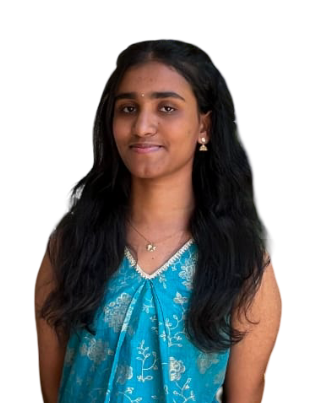
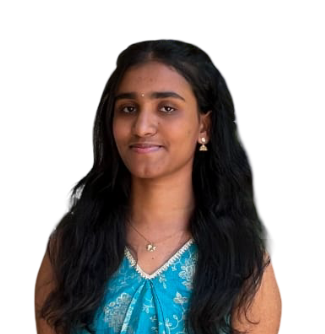
have refined the website and changed the team to the latest one

diff --git a/reg.html b/reg.html
@@ -13,8 +13,18 @@ body{font-family:Inter,sans-serif;background:#071322;color:#fff}
 .nav-link{color:#fff;transition:.3s}
 #navbar.scrolled .nav-link{color:#1e293b}
 .nav-link:hover{color:#9BE200}
-.glass{background:rgba(255,255,255,.08);backdrop-filter:blur(18px);border:1px solid rgba(255,255,255,.12)}
-.hero:before{content:"";position:absolute;inset:0;background:linear-gradient(120deg,rgba(7,19,34,.85),rgba(7,19,34,.45))}
+.glass
+{
+background:rgba(255,255,255,.08);
+backdrop-filter:blur(18px);
+border:1px solid rgba(255,255,255,.12)}
+.hero:before
+{
+content:"";
+position:absolute;
+inset:0;
+background:linear-gradient(120deg,rgba(7,19,34,.85),rgba(7,19,34,.45))
+}
 </style>
 </head>
 <body>
@@ -22,7 +32,7 @@ body{font-family:Inter,sans-serif;background:#071322;color:#fff}
 <header id="navbar">
 <div class="max-w-7xl mx-auto flex justify-between items-center px-8 py-4">
 <div class="flex items-center gap-5">
-<img src="images/logo.png" class="h-12">
+<img src="images/logo.jpeg" class="h-12">
 <img src="images/iu.png" class="h-12">
 </div>
 <nav class="hidden md:flex gap-8 font-medium">

diff --git a/iasf2026.html b/iasf2026.html
@@ -11,7 +11,7 @@ body{font-family:Inter,sans-serif;background:#071322;color:#fff}
 .hero:before{content:'';position:absolute;inset:0;background:rgba(7,19,34,.7)}
 </style></head><body>
 <header id="navbar"><div class="max-w-7xl mx-auto flex justify-between items-center px-8 py-4">
-<div class="flex items-center gap-5"><img src="images/logo.png" class="h-12"><img src="images/iu.png" class="h-12"></div>
+<div class="flex items-center gap-5"><img src="images/logo.jpeg" class="h-12"><img src="images/iu.png" class="h-12"></div>
 <nav class="hidden md:flex gap-8 font-medium">
 <a href="index.html" class="nav-link">Home</a><a href="about.html" class="nav-link">About</a><a href="mentor.html" class="nav-link">Mentorship</a><a href="vol.html" class="nav-link">Team</a><a href="iasf25.html" class="nav-link">IASF 2025</a><a href="iasf2026.html" class="nav-link text-lime-400">IASF 2026</a><a href="com.html" class="nav-link">Community</a>
 </nav><a href="reg.html" class="join-btn">Join Us</a></div></header>

diff --git a/iasf25.html b/iasf25.html
@@ -18,7 +18,7 @@ body{font-family:Inter,sans-serif;background:#071322;color:#fff}
 </head>
 <body>
 <header id="navbar"><div class="max-w-7xl mx-auto flex justify-between items-center px-8 py-4">
-<div class="flex items-center gap-5"><img src="images/logo.png" class="h-12"><img src="images/iu.png" class="h-12"></div>
+<div class="flex items-center gap-5"><img src="images/logo.jpeg" class="h-12"><img src="images/iu.png" class="h-12"></div>
 <nav class="hidden md:flex gap-8 font-medium">
 <a href="index.html" class="nav-link">Home</a><a href="about.html" class="nav-link">About</a><a href="mentor.html" class="nav-link">Mentorship</a><a href="vol.html" class="nav-link">Team</a><a href="iasf25.html" class="nav-link text-lime-400">IASF 2025</a><a href="iasf2026.html" class="nav-link">IASF 2026</a><a href="com.html" class="nav-link">Community</a>
 </nav><a href="reg.html" class="join-btn">Join Us</a></div></header>

diff --git a/vol.html b/vol.html
@@ -19,8 +19,8 @@ body{margin:0;background:#08111f;font-family:Arial,sans-serif}
 <header id="navbar">
 <div class="max-w-7xl mx-auto flex justify-between items-center px-8 py-4">
     <div class="flex items-center gap-4">
-      <img src="images/logo.png" class="h-12">
-      <img src="images/iu.png" class="h-10">
+      <img src="images/logo.jpeg" class="h-12">
+      <img src="images/iu.jpg" class="h-10">
     </div>
     <nav class="nav hidden md:flex gap-8">
       <a href="index.html">Home</a>

diff --git a/com.html b/com.html
@@ -24,7 +24,7 @@ body{font-family:Inter,sans-serif;background:#071322;color:#fff}
 <header id="navbar">
 <div class="max-w-7xl mx-auto flex justify-between items-center px-8 py-4">
 <div class="flex items-center gap-5">
-<img src="images/logo.png" class="h-12">
+<img src="images/logo.jpeg" class="h-12">
 <img src="images/iu.png" class="h-12">
 </div>
 <nav class="hidden md:flex gap-8 font-medium">

diff --git a/about.html b/about.html
@@ -69,7 +69,7 @@ border-color:#9BE200;
 <header id="navbar">
 <div class="max-w-7xl mx-auto flex justify-between items-center px-8 py-4">
 <div class="flex items-center gap-4">
-<img src="images/logo.png" class="h-12">
+<img src="images/logo.jpeg" class="h-12">
 <img src="images/iu.png" class="h-10">
 </div>
 

diff --git a/index.html b/index.html
@@ -76,7 +76,7 @@ backdrop-filter:blur(3px);
 <div class="max-w-7xl mx-auto flex justify-between items-center px-8 py-4">
 
 <div class="flex items-center gap-5">
-<img src="images/logo.png" class="h-12">
+<img src="images/logo.jpeg" class="h-12">
 <img src="images/iu.png" class="h-12">
 </div>
 

diff --git a/mentor.html b/mentor.html
@@ -14,7 +14,7 @@
 <div class="max-w-7xl mx-auto flex justify-between items-center px-8 py-4">
 
 <div class="flex items-center gap-5">
-<img src="images/logo.png" class="h-12">
+<img src="images/logo.jpeg" class="h-12">
 <img src="images/iu.png" class="h-12">
 </div>
 
